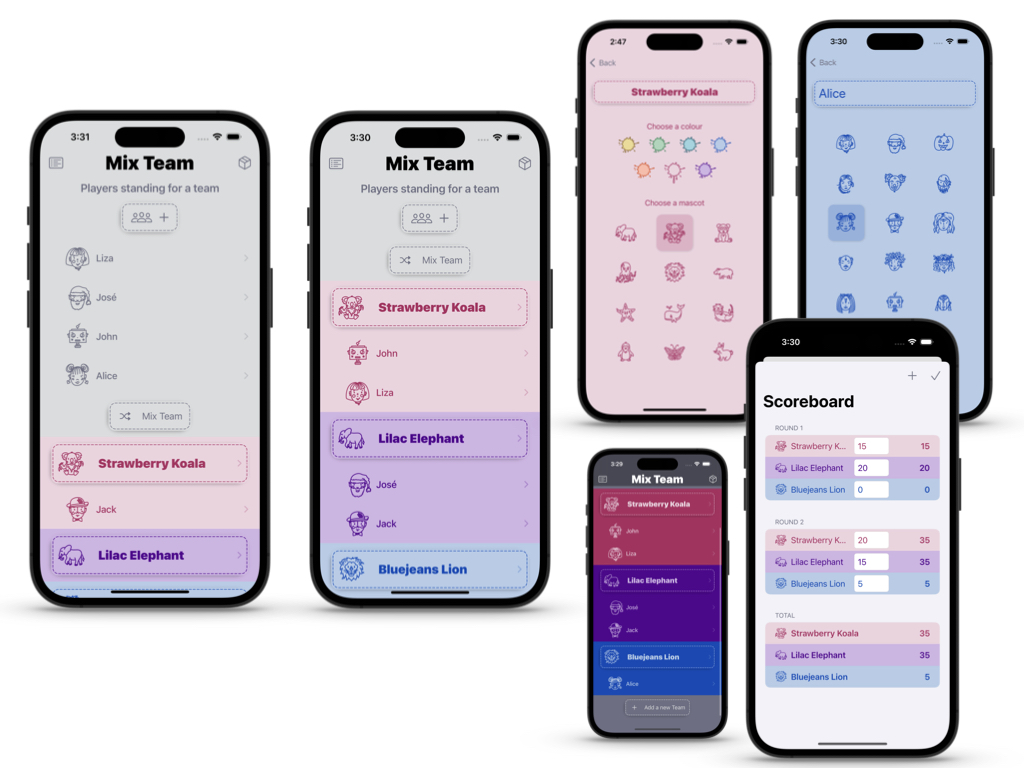
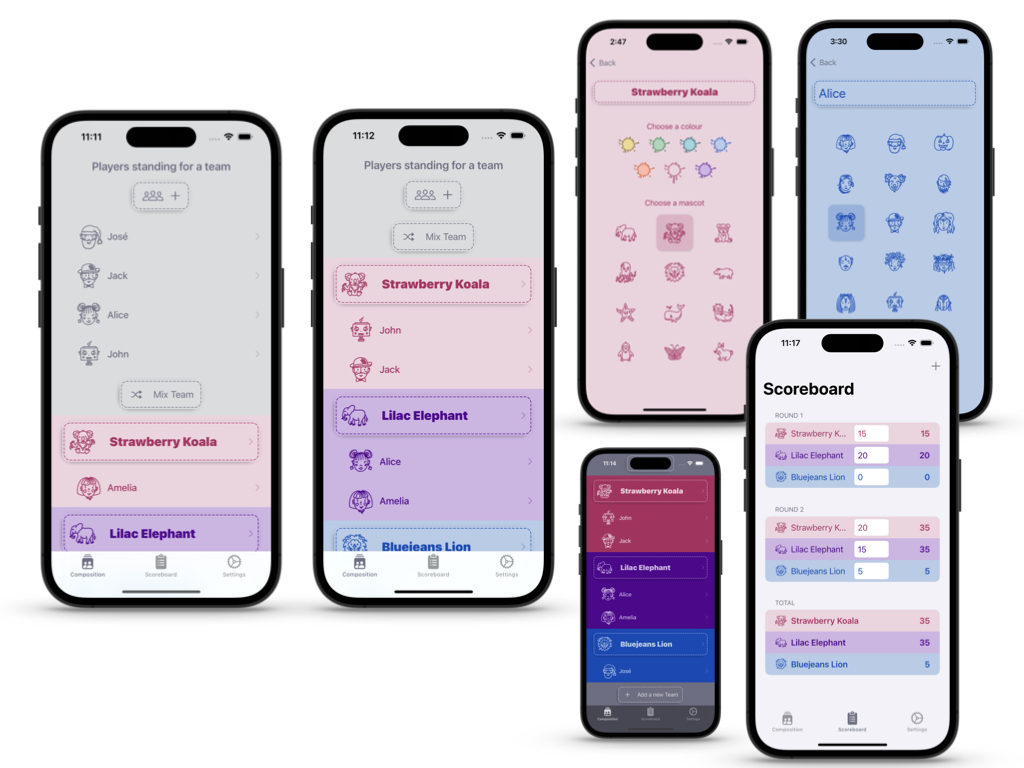
feat(App): add some navigation titles

Changed region(s): [[0.0, 0.125, 0.7188, 0.9688], [0.7188, 0.5, 0.9375, 1.0], [0.7188, 0.4062, 0.9375, 0.5]]

diff --git a/MixTeam/Composition/CompositionView.swift b/MixTeam/Composition/CompositionView.swift
@@ -6,27 +6,25 @@ struct CompositionView: View {
 
     var body: some View {
         WithViewStore(store.stateless) { viewStore in
-            NavigationView {
-                List {
-                    Group {
-                        StandingView(store: store.scope(state: \.standing, action: Composition.Action.standing))
-                        mixTeamButton
-                        ForEachStore(
-                            store.scope(state: \.teams, action: Composition.Action.team),
-                            content: TeamRow.init
-                        )
-                        .onDelete { viewStore.send(.archiveTeams($0), animation: .default) }
-                        addTeamButton
-                    }
-                    .listRowBackground(Color.clear)
-                    .listRowSeparator(.hidden)
+            List {
+                Group {
+                    StandingView(store: store.scope(state: \.standing, action: Composition.Action.standing))
+                    mixTeamButton
+                    ForEachStore(
+                        store.scope(state: \.teams, action: Composition.Action.team),
+                        content: TeamRow.init
+                    )
+                    .onDelete { viewStore.send(.archiveTeams($0), animation: .default) }
+                    addTeamButton
                 }
-                .backgroundAndForeground(color: .aluminium)
-                .confirmationDialog(
-                    store.scope(state: \.notEnoughTeamsConfirmationDialog),
-                    dismiss: .dismissNotEnoughTeamsAlert
-                )
+                .listRowBackground(Color.clear)
+                .listRowSeparator(.hidden)
             }
+            .backgroundAndForeground(color: .aluminium)
+            .confirmationDialog(
+                store.scope(state: \.notEnoughTeamsConfirmationDialog),
+                dismiss: .dismissNotEnoughTeamsAlert
+            )
         }
     }
 

diff --git a/MixTeam/Composition/CompositionLoader.swift b/MixTeam/Composition/CompositionLoader.swift
@@ -91,27 +91,31 @@ struct CompositionLoaderView: View {
     let store: StoreOf<CompositionLoader>
 
     var body: some View {
-        SwitchStore(store) {
-            CaseLet(
-                state: /CompositionLoader.State.loadingCard,
-                action: CompositionLoader.Action.loadingCard,
-                then: LoadingCardView.init
-            )
-            CaseLet(
-                state: /CompositionLoader.State.loaded,
-                action: CompositionLoader.Action.composition,
-                then: CompositionView.init
-            )
-            CaseLet(
-                state: /CompositionLoader.State.errorCard,
-                action: CompositionLoader.Action.errorCard,
-                then: ErrorCardView.init
-            )
+        NavigationView {
+            SwitchStore(store) {
+                CaseLet(
+                    state: /CompositionLoader.State.loadingCard,
+                    action: CompositionLoader.Action.loadingCard,
+                    then: LoadingCardView.init
+                )
+                CaseLet(
+                    state: /CompositionLoader.State.loaded,
+                    action: CompositionLoader.Action.composition,
+                    then: CompositionView.init
+                )
+                CaseLet(
+                    state: /CompositionLoader.State.errorCard,
+                    action: CompositionLoader.Action.errorCard,
+                    then: ErrorCardView.init
+                )
+            }
+            .listStyle(.plain)
+            .navigationViewStyle(.stack)
+            .navigationTitle("MixTeam")
+            .navigationBarTitleDisplayMode(.inline)
         }
-        .listStyle(.plain)
         .tabItem {
             Label("Composition", systemImage: "person.2.crop.square.stack")
         }
-        .navigationViewStyle(.stack)
-    }
+   }
 }

diff --git a/MixTeam/Settings/SettingsView.swift b/MixTeam/Settings/SettingsView.swift
@@ -32,6 +32,7 @@ struct SettingsView: View {
                     Text("Archives")
                 }
             }
+            .navigationTitle("Settings")
         }
         .tabItem {
             Label("Settings", systemImage: "gear")
